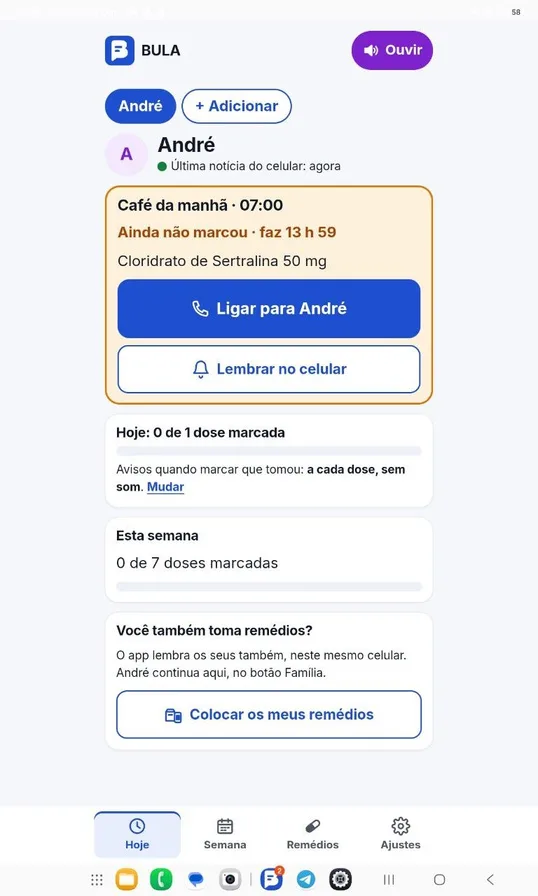
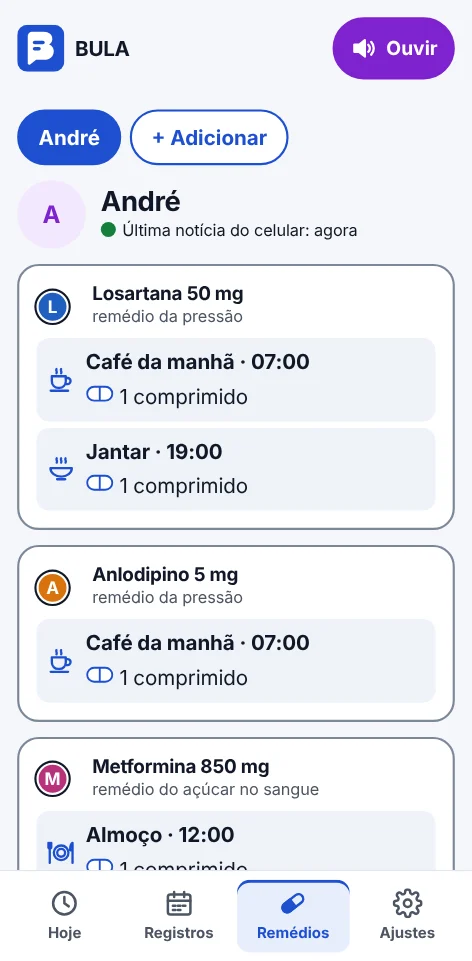
Add files via upload

diff --git a/index.html b/index.html
@@ -6,6 +6,18 @@
 <title>BULA · Squad 4</title>
 <meta name="claude:viewport-fit-sides" content="cover">
 <meta name="description" content="BULA, Base Unificada de Linguagem Acessível: o app de remédios que fala. Projeto do Squad 4 da CESAR School.">
+<meta name="theme-color" content="#0348FF">
+<meta property="og:type" content="website">
+<meta property="og:site_name" content="BULA">
+<meta property="og:locale" content="pt_BR">
+<meta property="og:title" content="BULA · O app de remédios que fala">
+<meta property="og:description" content="Lê a caixa do remédio, explica em palavras simples, avisa a hora de tomar e mostra onde pegar de graça. Projeto do Squad 4 da CESAR School.">
+<meta property="og:url" content="https://bula-app.github.io/bula/">
+<meta property="og:image" content="https://bula-app.github.io/bula/assets/og.jpg">
+<meta property="og:image:width" content="1200">
+<meta property="og:image:height" content="630">
+<meta property="og:image:alt" content="BULA, Base Unificada de Linguagem Acessível: o app de remédios que fala">
+<meta name="twitter:card" content="summary_large_image">
 <link rel="icon" href="assets/favicon.svg" type="image/svg+xml">
 <link rel="preconnect" href="https://fonts.googleapis.com">
 <link rel="preconnect" href="https://fonts.gstatic.com" crossorigin>
@@ -78,6 +90,9 @@ a{color:inherit}
 .abertura .ouvir{justify-self:start;animation:textoSobe .6s ease-out 1.2s both}
 .azul .ouvir[aria-pressed="true"],.abertura .ouvir[aria-pressed="true"]{background:var(--sobre-azul);color:var(--azul)}
 
+/* faixa do Demoday: aparece só até 13/11/2026 e some sozinha depois */
+.voto{margin:0;padding:10px 16px;background:var(--marinho);color:#fff;text-align:center;font-family:var(--display);font-weight:700;font-size:.98rem;line-height:1.35}
+:root[data-contraste="1"] .voto{background:#000;color:#FFE600;border-bottom:2px solid #FFE600}
 /* topo */
 .topo{position:sticky;top:env(safe-area-inset-top,0px);z-index:20;background:var(--papel);border-bottom:1px solid var(--linha)}
 .topo .miolo{display:flex;align-items:center;gap:16px;min-height:72px;flex-wrap:wrap;padding-block:8px}
@@ -266,6 +281,8 @@ tbody tr:last-child td,tbody tr:last-child th{border-bottom:0}
   </div>
 </header>
 
+<p class="voto" id="voto" hidden></p>
+
 <main id="conteudo">
   <section class="abertura faixa" id="inicio" aria-labelledby="titulo">
     <video class="fundo" id="vFundo" src="assets/fundo.mp4" poster="assets/fundo-capa.jpg" autoplay muted loop playsinline aria-hidden="true" tabindex="-1"></video>
@@ -360,9 +377,9 @@ tbody tr:last-child td,tbody tr:last-child th{border-bottom:0}
         <li><div class="celular"><img src="assets/tela-u4.webp" alt="Alarme às 7 horas com o nome do remédio e os botões TOMEI e daqui a 10 minutos" loading="lazy" width="472" height="961"></div><h3>Alarme</h3><p>Toca com o som do BULA e fala o nome do remédio. Dá para conferir a caixa com a câmera.</p></li>
       </ol>
       <ol class="telas" id="painelC" role="tabpanel" aria-labelledby="tabC" hidden>
-        <li><div class="celular"><img src="assets/tela-c1.webp" alt="Remédios de André no celular da cuidadora, com quantos comprimidos restam" loading="lazy" width="538" height="896"></div><h3>Remédios de quem você cuida</h3><p>Coloca ou muda remédios à distância e vê quando a caixa vai acabar.</p></li>
-        <li><div class="celular"><img src="assets/tela-c2.webp" alt="Semana de André, com as doses marcadas e as que faltaram" loading="lazy" width="538" height="896"></div><h3>A semana</h3><p>Cada dia mostra as doses marcadas e as que faltaram.</p></li>
-        <li><div class="celular"><img src="assets/tela-c3.webp" alt="Aviso de dose não marcada, com os botões ligar para André e lembrar no celular" loading="lazy" width="538" height="896"></div><h3>Dose atrasada</h3><p>Se passar do horário, aparece o aviso com ligar ou lembrar no celular da pessoa.</p></li>
+        <li><div class="celular"><img src="assets/tela-c1.webp" alt="Remédios de André no celular da cuidadora, com os horários de cada um" loading="lazy" width="472" height="961"></div><h3>Remédios de quem você cuida</h3><p>Coloca ou muda remédios à distância, sem precisar estar junto.</p></li>
+        <li><div class="celular"><img src="assets/tela-c2.webp" alt="Calendário do mês de André, com os dias em que tomou tudo, uma parte ou não marcou" loading="lazy" width="472" height="961"></div><h3>O mês inteiro</h3><p>Cada dia mostra se tomou tudo, uma parte ou nada.</p></li>
+        <li><div class="celular"><img src="assets/tela-c3.webp" alt="Aviso de dose não marcada, com os botões ligar para André e lembrar no celular" loading="lazy" width="472" height="961"></div><h3>Dose atrasada</h3><p>Se passar do horário, aparece o aviso com ligar ou lembrar no celular da pessoa.</p></li>
         <li><div class="celular"><img src="assets/tela-c4.webp" alt="Resumo da semana enviado no WhatsApp para a rede de apoio" loading="lazy" width="414" height="896"></div><h3>Resumo para a família</h3><p>O resumo da semana vai pelo WhatsApp para quem também ajuda.</p></li>
       </ol>
     </div>
@@ -462,6 +479,12 @@ tbody tr:last-child td,tbody tr:last-child th{border-bottom:0}
   /* link do protótipo no Figma: troque aqui quando mudar */
   var FIGMA='https://bulaa.figma.site';
   document.querySelectorAll('a.figma').forEach(function(a){ a.href=FIGMA; });
+
+  /* faixa do voto popular no Demoday (13/11/2026): some sozinha no dia seguinte */
+  (function(){ var v=document.getElementById('voto'), h=new Date(), dia=h.getFullYear()*10000+(h.getMonth()+1)*100+h.getDate();
+    if(!v || dia>20261113) return;
+    v.textContent = dia===20261113 ? 'Hoje no Demoday do Porto Digital: vote no BULA, Squad 4.' : 'Dia 13/11 no Demoday do Porto Digital: vote no BULA, Squad 4.';
+    v.hidden=false; })();
 
   /* voltar ao início: aparece depois de descer a página */
   var bS=document.getElementById('bSubir');

diff --git a/historia.html b/historia.html
@@ -6,6 +6,18 @@
 <title>Nossa história · BULA</title>
 <meta name="claude:viewport-fit-sides" content="cover">
 <meta name="description" content="A história do BULA: do e-mail que formou o Squad 4 ao app que lê a bula em voz alta. Squad 4 · CESAR School.">
+<meta name="theme-color" content="#0348FF">
+<meta property="og:type" content="website">
+<meta property="og:site_name" content="BULA">
+<meta property="og:locale" content="pt_BR">
+<meta property="og:title" content="Nossa história · BULA">
+<meta property="og:description" content="Do e-mail que formou o Squad 4 ao app que lê a bula em voz alta.">
+<meta property="og:url" content="https://bula-app.github.io/bula/historia.html">
+<meta property="og:image" content="https://bula-app.github.io/bula/assets/og.jpg">
+<meta property="og:image:width" content="1200">
+<meta property="og:image:height" content="630">
+<meta property="og:image:alt" content="BULA, Base Unificada de Linguagem Acessível: o app de remédios que fala">
+<meta name="twitter:card" content="summary_large_image">
 <link rel="icon" href="assets/favicon.svg" type="image/svg+xml">
 <link rel="preconnect" href="https://fonts.googleapis.com">
 <link rel="preconnect" href="https://fonts.gstatic.com" crossorigin>
